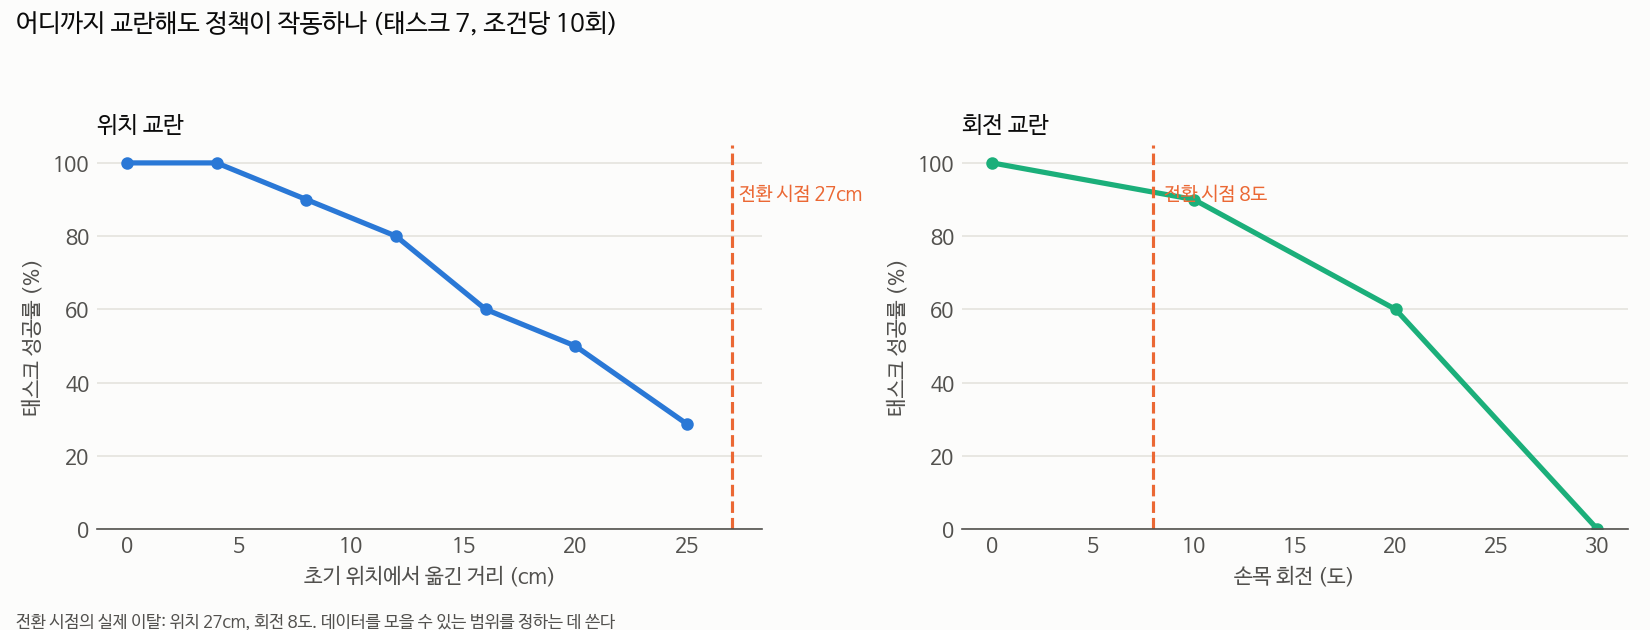
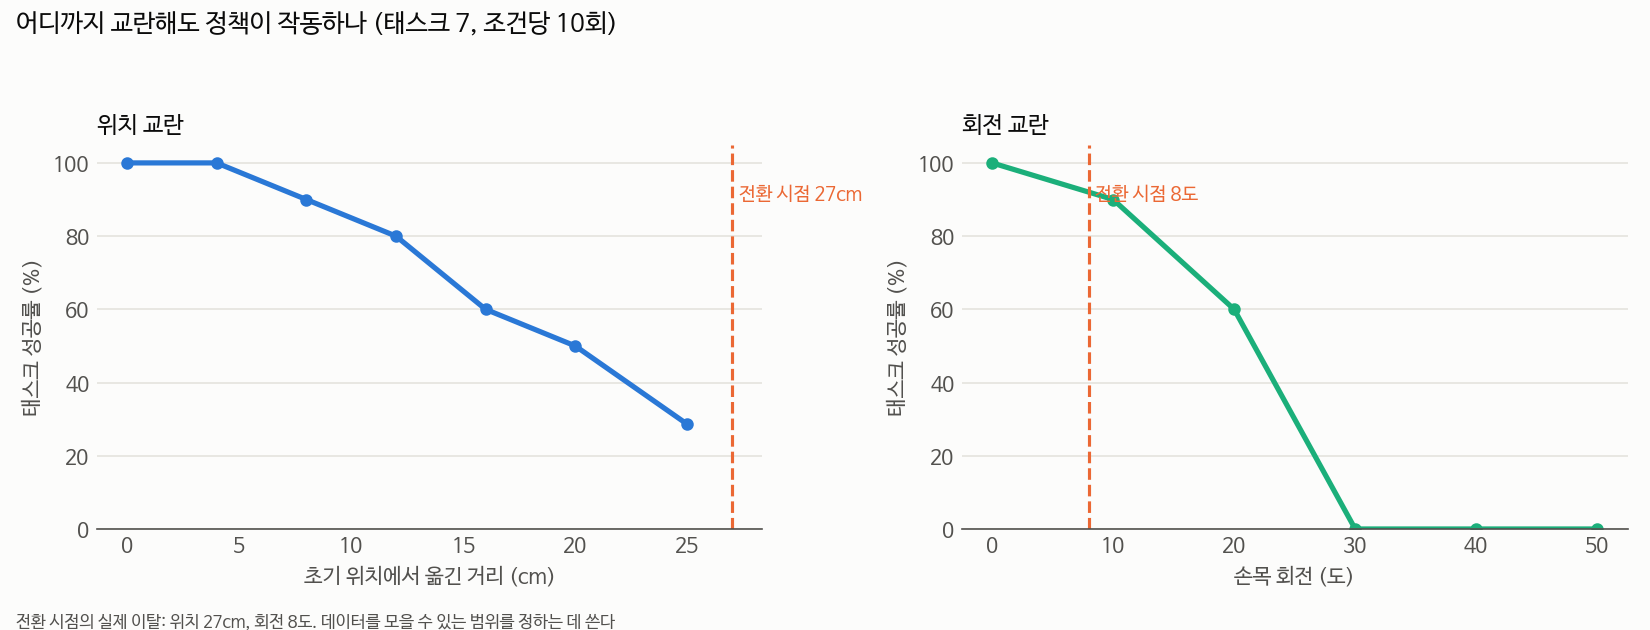
교란 경계: 위치는 완만하고 회전은 절벽 — A 재개 0%의 설명 후보
- 회전 곡선 완성: 30/40/50도 모두 0% (20도는 60%)
- 위치는 25cm 에서도 29% → 두 축의 성질이 다르다
- 전환(27cm + 8도)은 위치 문제, A 재개는 회전 문제
- 검증 가능한 예측을 먼저 기록: B 종료 시점 손목 회전 > 30도
- analyze_boundary.py 에 비대칭 분석 추가

diff --git a/04_실습/05_libero/boundary/analyze_boundary.py b/04_실습/05_libero/boundary/analyze_boundary.py
@@ -85,6 +85,22 @@ def main():
             print("→ 쉬운 쌍은 예측과 거의 같다: 전환의 어려움은 팔 위치가 거의 전부")
         print("→ 9→7 만 0% 로 크게 벗어난다: 그 쌍에는 **위치 말고 다른 어려움**이 있다")
 
+    # ---- 위치 vs 회전 비대칭 ----
+    print("\n== 위치 vs 회전: 어느 쪽이 더 치명적인가")
+    ycurve0 = {**KNOWN_YAW, **{r["yaw"]: r["rate"] for r in yaw_only}}
+    pos_ok = [k for k, v in curve.items() if v >= 0.25]
+    yaw_ok = [k for k, v in ycurve0.items() if v >= 0.25]
+    if pos_ok and yaw_ok:
+        print(f"성공률 25% 이상을 유지하는 한계:  위치 **{max(pos_ok):.0f}cm**  /  회전 **{max(yaw_ok):.0f}도**")
+    yzero = sorted(k for k, v in ycurve0.items() if v < 0.05)
+    if yzero:
+        print(f"회전은 **{min(yzero):.0f}도부터 계속 0%** — 완만히 줄지 않고 절벽처럼 떨어진다")
+    print("전환 시점의 실제 이탈: 위치 27cm(한계 근처) + 회전 8도(안전 구간)")
+    print("→ **전환 자체는 회전이 문제가 아니다. 위치가 문제다**")
+    print("→ 그런데 A 재개는 반대다: ret_pos(위치만 복귀) 7% vs retreat(위치+회전) 62%")
+    print("   ⇒ 예측: **B 를 끝낸 시점의 손목 회전은 30도를 넘어 있다** (그래서 위치만 되돌려선 안 된다)")
+    print("     검증: eef_rotvec 이 기록된 새 궤적에서 A2 시작 시점의 회전 이탈을 잰다")
+
     print("\n== 역커리큘럼에 쓸 수 있는 범위")
     ok = [r for r in off_only if r["rate"] >= 0.2]
     if ok:

diff --git a/03_일지/2026-09-18.md b/03_일지/2026-09-18.md
@@ -27,6 +27,7 @@
 | 16 | ⚠ **전환은 임의 교란보다 쉽다** | 같은 27cm 인데 전환 50~55% vs 임의 29% | [교란 경계](../04_실습/05_libero/boundary/README.md) |
 | 17 | 데이터 수집 경계 | 20cm 50%, **25cm 29%** → 거기까지 모을 수 있다 | 〃 |
 | 18 | 전환 시점 회전 이탈은 **8도** | 위치 27cm 에 비해 작다 | [회복 실험](../04_실습/05_libero/recovery/README.md) |
+| 20 | ⭐ **위치는 완만, 회전은 절벽** | 위치 25cm 29% / 회전 **30도부터 0%**. 전환은 위치 문제, 재개는 회전 문제 | [교란 경계](../04_실습/05_libero/boundary/README.md) |
 | 19 | ⭐ **A 재개 0% 가 완전히 설명됨** | B 를 끝내면 팔이 **40cm** 떨어져 있다. 재개에는 **회전**이 결정적(7% vs 62%) | 〃 |
 
 ## 이 일지에서 새로 나오는 말
@@ -364,6 +365,42 @@ B 는 끝까지 유지됐으므로(22/23) B 를 망친 게 아니라 **A 를 못
 전환 자세와 성질이 달라 전이가 안 됐을 수 있습니다 →
 **LoRA 3차는 전환 자세 데이터를 5배로 늘려 학습**하도록 다시 설계했습니다.
 
+## 15. ⭐ 위치는 완만하고 회전은 절벽 — 그리고 이것이 A 재개 0%를 설명할지 모른다
+
+손목 회전 곡선을 끝까지 채우자 **두 축의 성질이 전혀 다르다**는 것이 보였습니다.
+
+| 교란 | 곡선 | 25% 를 지키는 한계 |
+|---|---|---|
+| 위치 | 100 → 100 → 90 → 80 → 60 → 50 → 29 (0·4·8·12·16·20·25cm) | **25cm** |
+| 회전 | 100 → 90 → 60 → **0 → 0 → 0** (0·10·20·30·40·50도) | **20도** |
+
+위치는 25cm 에서도 29% 가 되지만, **회전은 20도와 30도 사이가 절벽**입니다.
+
+**① 전환은 회전 문제가 아니라 위치 문제입니다.**
+전환 시점의 실제 이탈은 **위치 27cm + 회전 8도**. 회전 8도는 거의 100% 구간이고,
+위치 27cm 는 한계 바로 바깥입니다.
+
+**② 그런데 A 재개는 정반대입니다.**
+
+| 전략 | 위치 복귀 | 회전 복귀 | A 재개 |
+|---|---|---|---|
+| ret_pos | ✅ 1.1cm | ❌ | **7%** |
+| retreat | ✅ 1.3cm | ✅ | **62%** |
+
+위치를 1.1cm 까지 되돌려도 7% 입니다. 회전이 남아 있으면 소용이 없습니다.
+
+### 🔮 그래서 예측을 먼저 적어 둡니다 (아직 검증 전)
+
+> **B 를 끝낸 시점의 손목 회전은 30도를 넘어 있을 것이다.**
+
+근거: 30도 이상이면 깨끗한 장면에서도 0% 인데 A 재개도 정확히 0% 입니다.
+20도 이내였다면 위치를 되돌린 ret_pos 가 7% 에 그칠 이유가 없습니다.
+
+**검증**: 오늘 16:04 에 궤적 기록에 `eef_rotvec`(손목 회전)을 추가했습니다.
+이후 실험의 궤적에서 A2 시작 시점의 회전 이탈을 재면 됩니다.
+**30도를 넘으면 예측이 맞고, 20도 이내면 이 설명은 틀린 것**이라 다시 생각해야 합니다.
+→ [경계 보고서](../04_실습/05_libero/boundary/README.md)
+
 ## 막힌 것 / 해결 방법
 
 | 문제 | 원인 | 해결 |
@@ -395,6 +432,8 @@ B 는 끝까지 유지됐으므로(22/23) B 를 망친 게 아니라 **A 를 못
 | 판정기 AUC (V / Q) | 0.9318 / 0.9321 | 11,563 결정 |
 | SmolVLA 1회 추론 (1080 Ti 단독) | **559.9ms = 11.2 스텝** | fp32, chunk 50 |
 | 태스크 성공 지연 0 / 0.25 / 0.5 / 1초 | 90 / 72 / **12** / 0% | RTC 끔 |
+| **교란 경계** 위치 12/16/20/25cm | 80 / 60 / 50 / **29%** | 태스크 7, 조건당 10회 |
+| 〃 회전 30/40/50도 | **0 / 0 / 0%** | 20도(60%)와 30도 사이가 절벽 |
 
 ## 다음에 할 것
 

diff --git a/04_실습/05_libero/boundary/README.md b/04_실습/05_libero/boundary/README.md
@@ -71,10 +71,64 @@
 이는 [회복 실험](../recovery/README.md)의 결과와도 맞물립니다 — `ret_part` 로 팔을 7.4cm 까지 되돌리면 67% 인데,
 깨끗한 장면의 8cm 는 90% 입니다. **되돌린 자세는 깨끗한 자세보다 못합니다** (스크립트로 만든 자세라 분포 밖).
 
+## ⭐ 2-2. 위치는 완만하고, 회전은 절벽이다
+
+손목 회전 곡선까지 채우자 **두 축의 성질이 완전히 다르다**는 것이 드러났습니다.
+
+| 손목을 돌려 놓은 각도 | 성공률 |
+|---|---|
+| 0도 | 100% |
+| 10도 | 90% |
+| 20도 | 60% |
+| **30도** | **0%** |
+| 40도 | 0% |
+| 50도 | 0% |
+
+```
+위치:  100 ─ 100 ─ 90 ─ 80 ─ 60 ─ 50 ─ 29 …   완만한 내리막 (25cm 에서도 29%)
+회전:  100 ─  90 ─ 60 ─  0 ─  0 ─  0        20도와 30도 사이가 절벽
+```
+
+| | 25% 를 유지하는 한계 | 성질 |
+|---|---|---|
+| 위치 | **25cm** | 완만하게 감소 |
+| 회전 | **20도** | 30도부터 **갑자기 0%** |
+
+### 이것이 두 가지를 설명한다
+
+**① 전환이 어려운 이유는 회전이 아니라 위치다.**
+전환 시점의 실제 이탈은 **위치 27cm + 회전 8도**입니다.
+회전 8도는 성공률이 100%에 가까운 안전 구간이고, 위치 27cm 는 한계 바로 바깥입니다.
+→ 전환 대책은 **위치** 쪽을 봐야 합니다.
+
+**② 그런데 A 재개는 정반대입니다.** [회복 실험](../recovery/README.md)에서:
+
+| 전략 | 위치 복귀 | 회전 복귀 | A 재개 |
+|---|---|---|---|
+| ret_pos | ✅ 1.1cm | ❌ | **7%** |
+| retreat | ✅ 1.3cm | ✅ | **62%** |
+
+위치를 거의 완벽히 되돌려도 7% 입니다. **회전이 안 되돌아가면 소용이 없습니다.**
+
+### 🔮 그래서 예측 (아직 검증 전)
+
+> **B 를 끝낸 시점의 손목 회전은 30도를 넘어 있을 것이다.**
+
+근거: 30도 이상이면 깨끗한 장면에서도 0% 인데, A 재개도 정확히 0% 입니다.
+만약 B 종료 시점의 회전이 20도 이내였다면 위치만 되돌린 ret_pos 가 7% 에 그칠 이유가 없습니다.
+
+**왜 돌아가 있나 (가설)**: A 에서 잡은 물체를 내려놓는 동작과 B 를 수행하는 동작이
+손목을 계속 비틀어 놓기 때문입니다. 위치는 되돌릴 수 있어도 그 비틀림은 남습니다.
+
+**검증 방법**: 2026-09-18 16:04 에 궤적 기록에 `eef_rotvec` 을 추가했습니다.
+그 이후에 도는 실험의 궤적에서 **A2 시작 시점의 회전 이탈**을 재면 바로 확인됩니다.
+30도를 넘으면 예측이 맞고, 20도 이내면 **이 설명은 틀린 것**이라 다시 생각해야 합니다.
+
 ## 3. 이것이 바꾸는 것
 
 | | |
 |---|---|
+| **전환 대책의 방향** | 전환은 위치 27cm 가 문제지 회전 8도는 문제가 아니다 → 회전을 건드리는 대책은 우선순위가 낮다 |
 | **역커리큘럼** | 25cm 까지 데이터를 모을 수 있다 → [LoRA 3차](../lora_v2/README.md)의 교란 범위를 20~30cm 로 넓힐 근거 |
 | **문제 정의** | 전환은 "먼 자세"가 아니라 **"먼데 자연스러운 자세"** 다. 임의 교란으로 학습하면 엉뚱한 것을 배울 수 있다 |
 | **LoRA 2차 재해석** | 2차는 8~20cm **임의 교란**으로 학습했다. 전환 자세와 성질이 달라 전이가 안 됐을 수 있다 → **전환 자세 자체로 학습하는 것이 맞다** |
